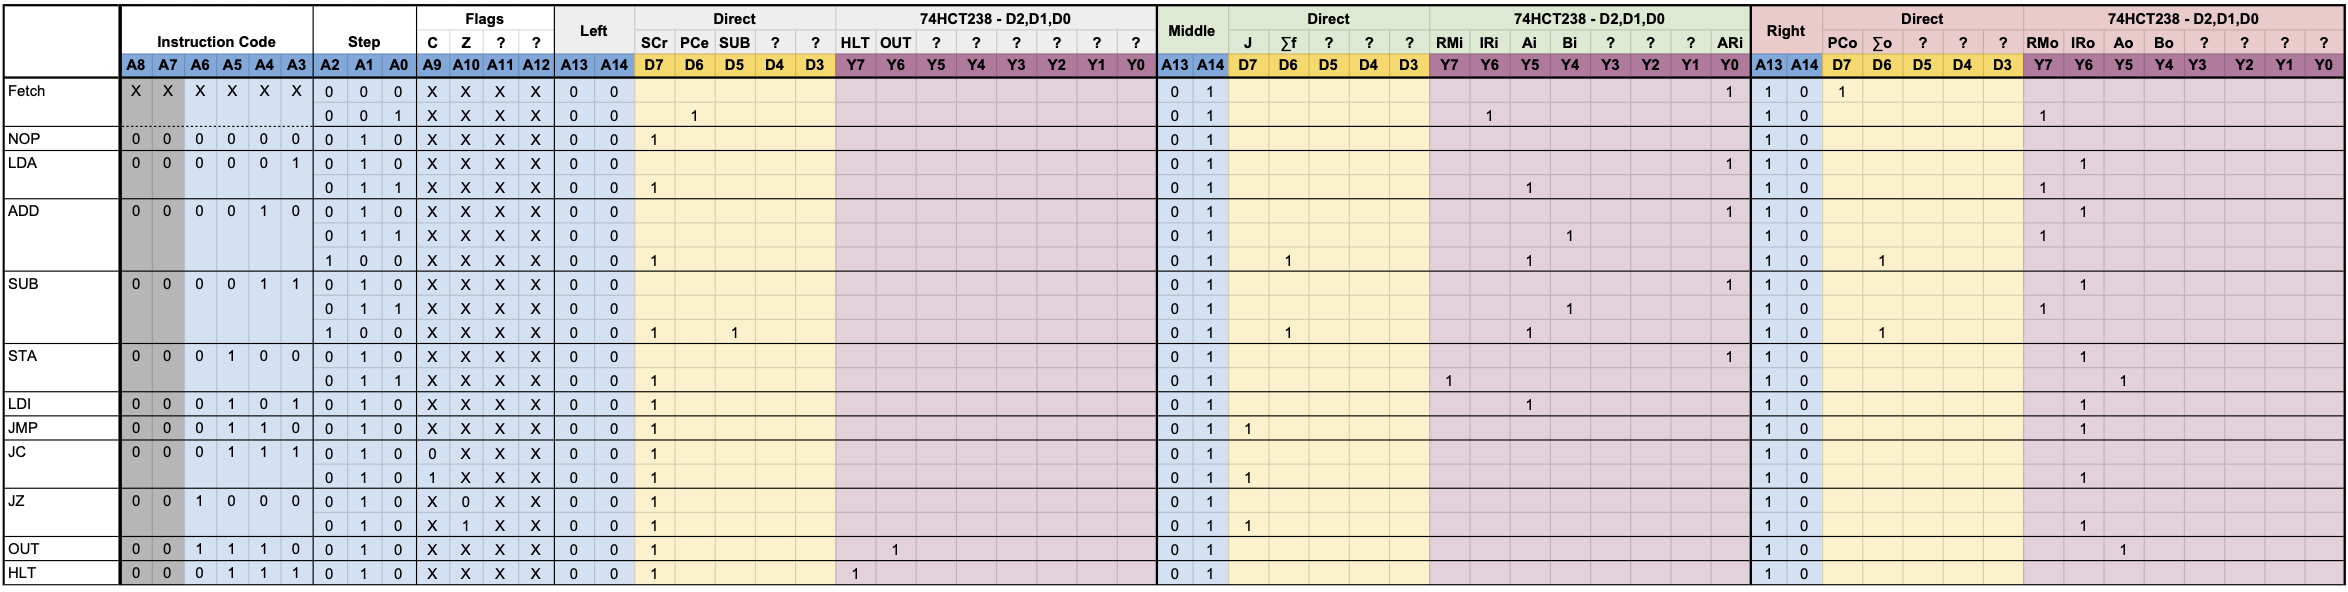
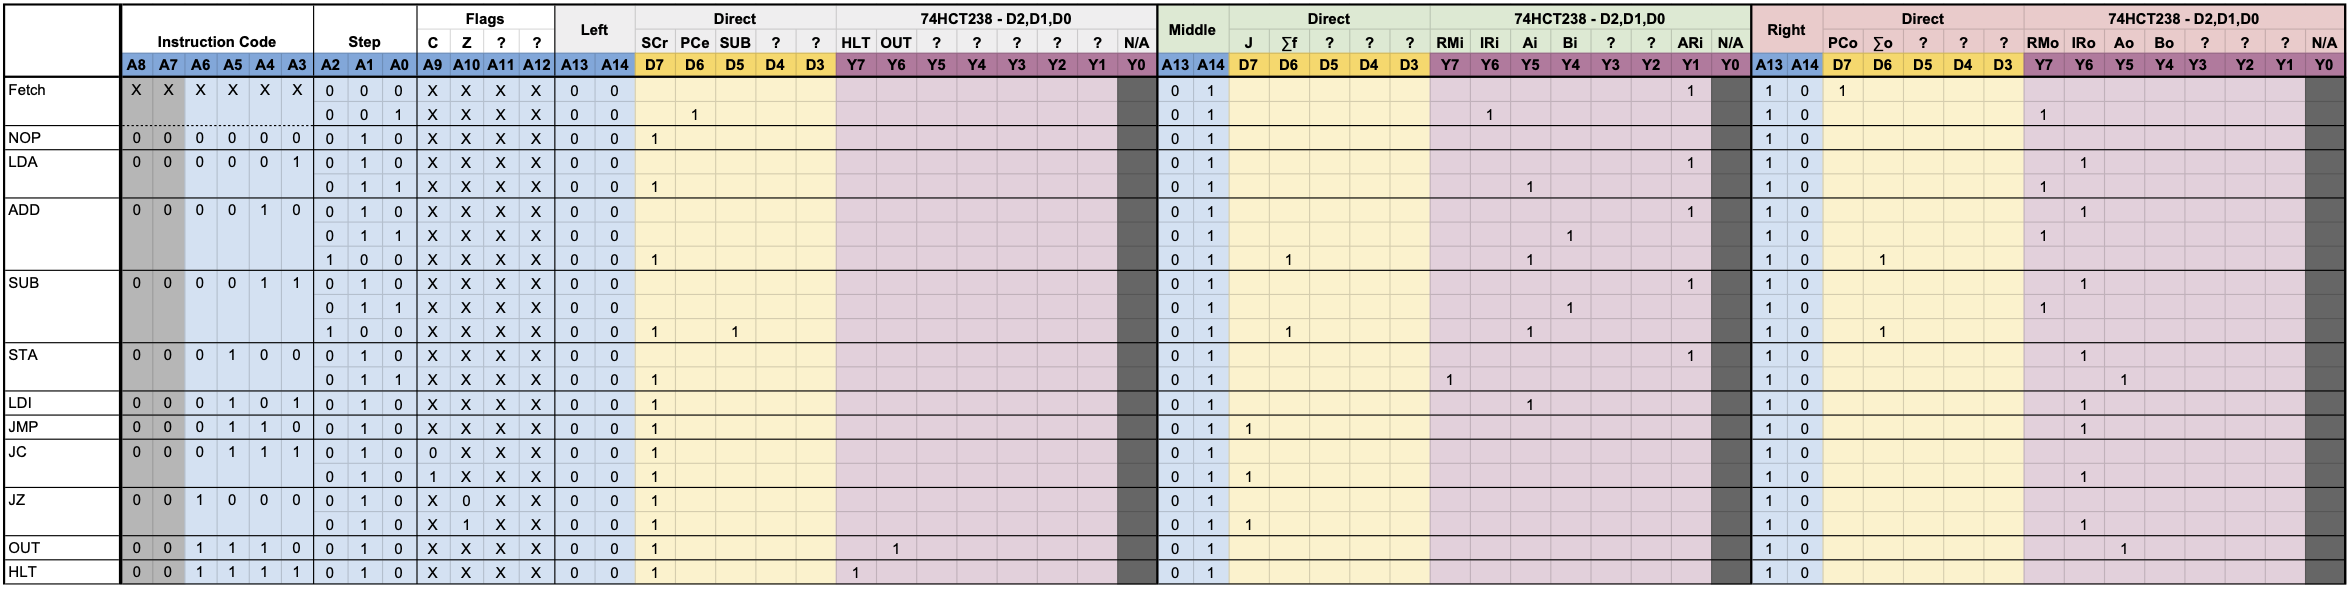
fixed werror where Y0 on 74HCT238 cannot be used for control lines

Changed region(s): [[0.0, 0.0, 1.0, 1.0]]

diff --git a/expanded-control-logic/README.md b/expanded-control-logic/README.md
@@ -47,7 +47,7 @@ With this project, we will add the following new control signals:
 ### IC Selection
 For the EEPROMs, the 28C256 EEPROM will be used. The 28C256 adds 4 more address lines over the 28C16 used in the original SPA-1 design. This enables later instruction code expansion and more flag lines. 
 
-Control line expansion will be accomplished by both using three EEPROMs rather than just two and then strategically using 3-to-8 decoders on some of the EEPROM data line. Since we want our control lines to be active high, the 74HCT238 is used as the 3-to-8 decoder instead of the 74LS138, which would need an inverter prior to the control line status LED.Using one 74HCT238 with each 28C256 will yield a total of 39 control lines.
+Control line expansion will be accomplished by both using three EEPROMs rather than just two and then strategically using 3-to-8 decoders on some of the EEPROM data line. Since we want our control lines to be active high, the 74HCT238 is used as the 3-to-8 decoder instead of the 74LS138, which would need an inverter prior to the control line status LED. one important thing to note is that even thought the 74HCT238 has 8 outputs, only 7 can be used. The `Y0` output is actively if the input is zero, and the input will always be zero if we aren't selecting another value on the input. So, this means the `Y0` output needs to be ignored when it is high. Using one 74HCT238 with each 28C256 will yield a total of 36 usable control lines (12 from each 28C256/74HCT238).
 
 Finally, the step counter will be similar in design to the original SAP-1, however since the `SCr` step counter reset is going to be active high, the step counter design is simplified 74HCT238 3-to-8 decoder as all possible step reset signals (the reset button, the maximum step in the step counter, and the `SCr` microcode signal) will now be active high. These signals can then be combined together with OR gates and the final results inverted before being fed into the M̅R̅ signal on the 74LS161 4-bit binary counter.
 
@@ -69,7 +69,7 @@ With three EEPROM address lines used to indicate the microcode step, that accoun
 
 ### Bit Layout
 
-Between the three 74LS238 and the balance of the data bits from the three EEPROMs, there is a total of 39 available control signals. One of the considerations that must be made due to the use fo the 74HCT238 3-to-8 decoder is that each 74HCT238 can only activate one control line at a time. So control lines that have the potential of being activated on the same microcode step must be on different 74HCT238s or be on one of the directly exposed 28C256 data lines. 
+Between the three 74LS238 and the balance of the data bits from the three EEPROMs, there is a total of 36 available control signals. One of the considerations that must be made due to the use fo the 74HCT238 3-to-8 decoder is that each 74HCT238 can only activate one control line at a time. So control lines that have the potential of being activated on the same microcode step must be on different 74HCT238s or be on one of the directly exposed 28C256 data lines. 
 
 To enable the original SAP-1 instruction set, the control signals will be laid out in the data bits as follows:
 
